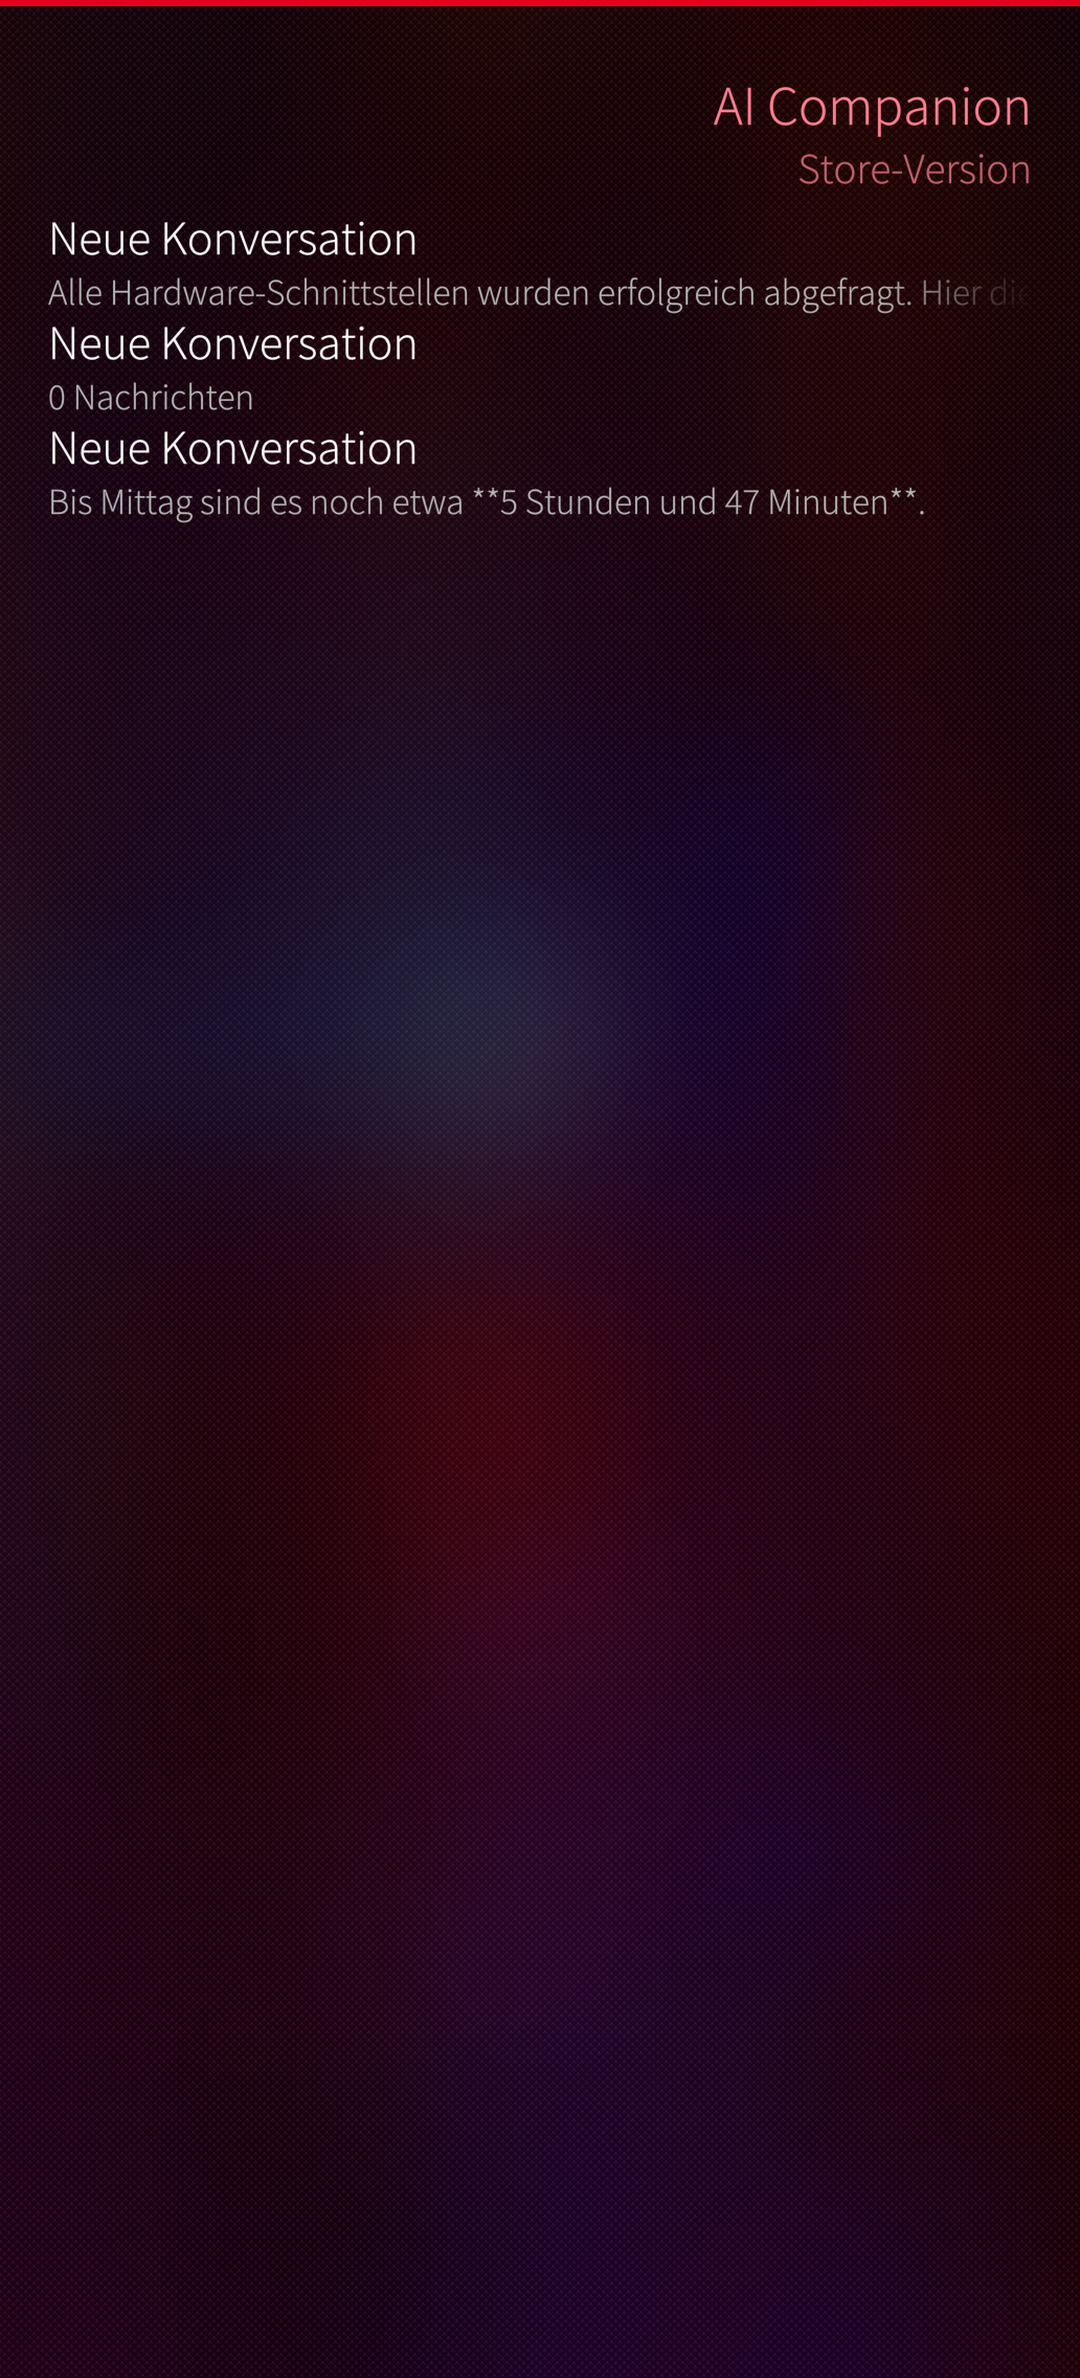
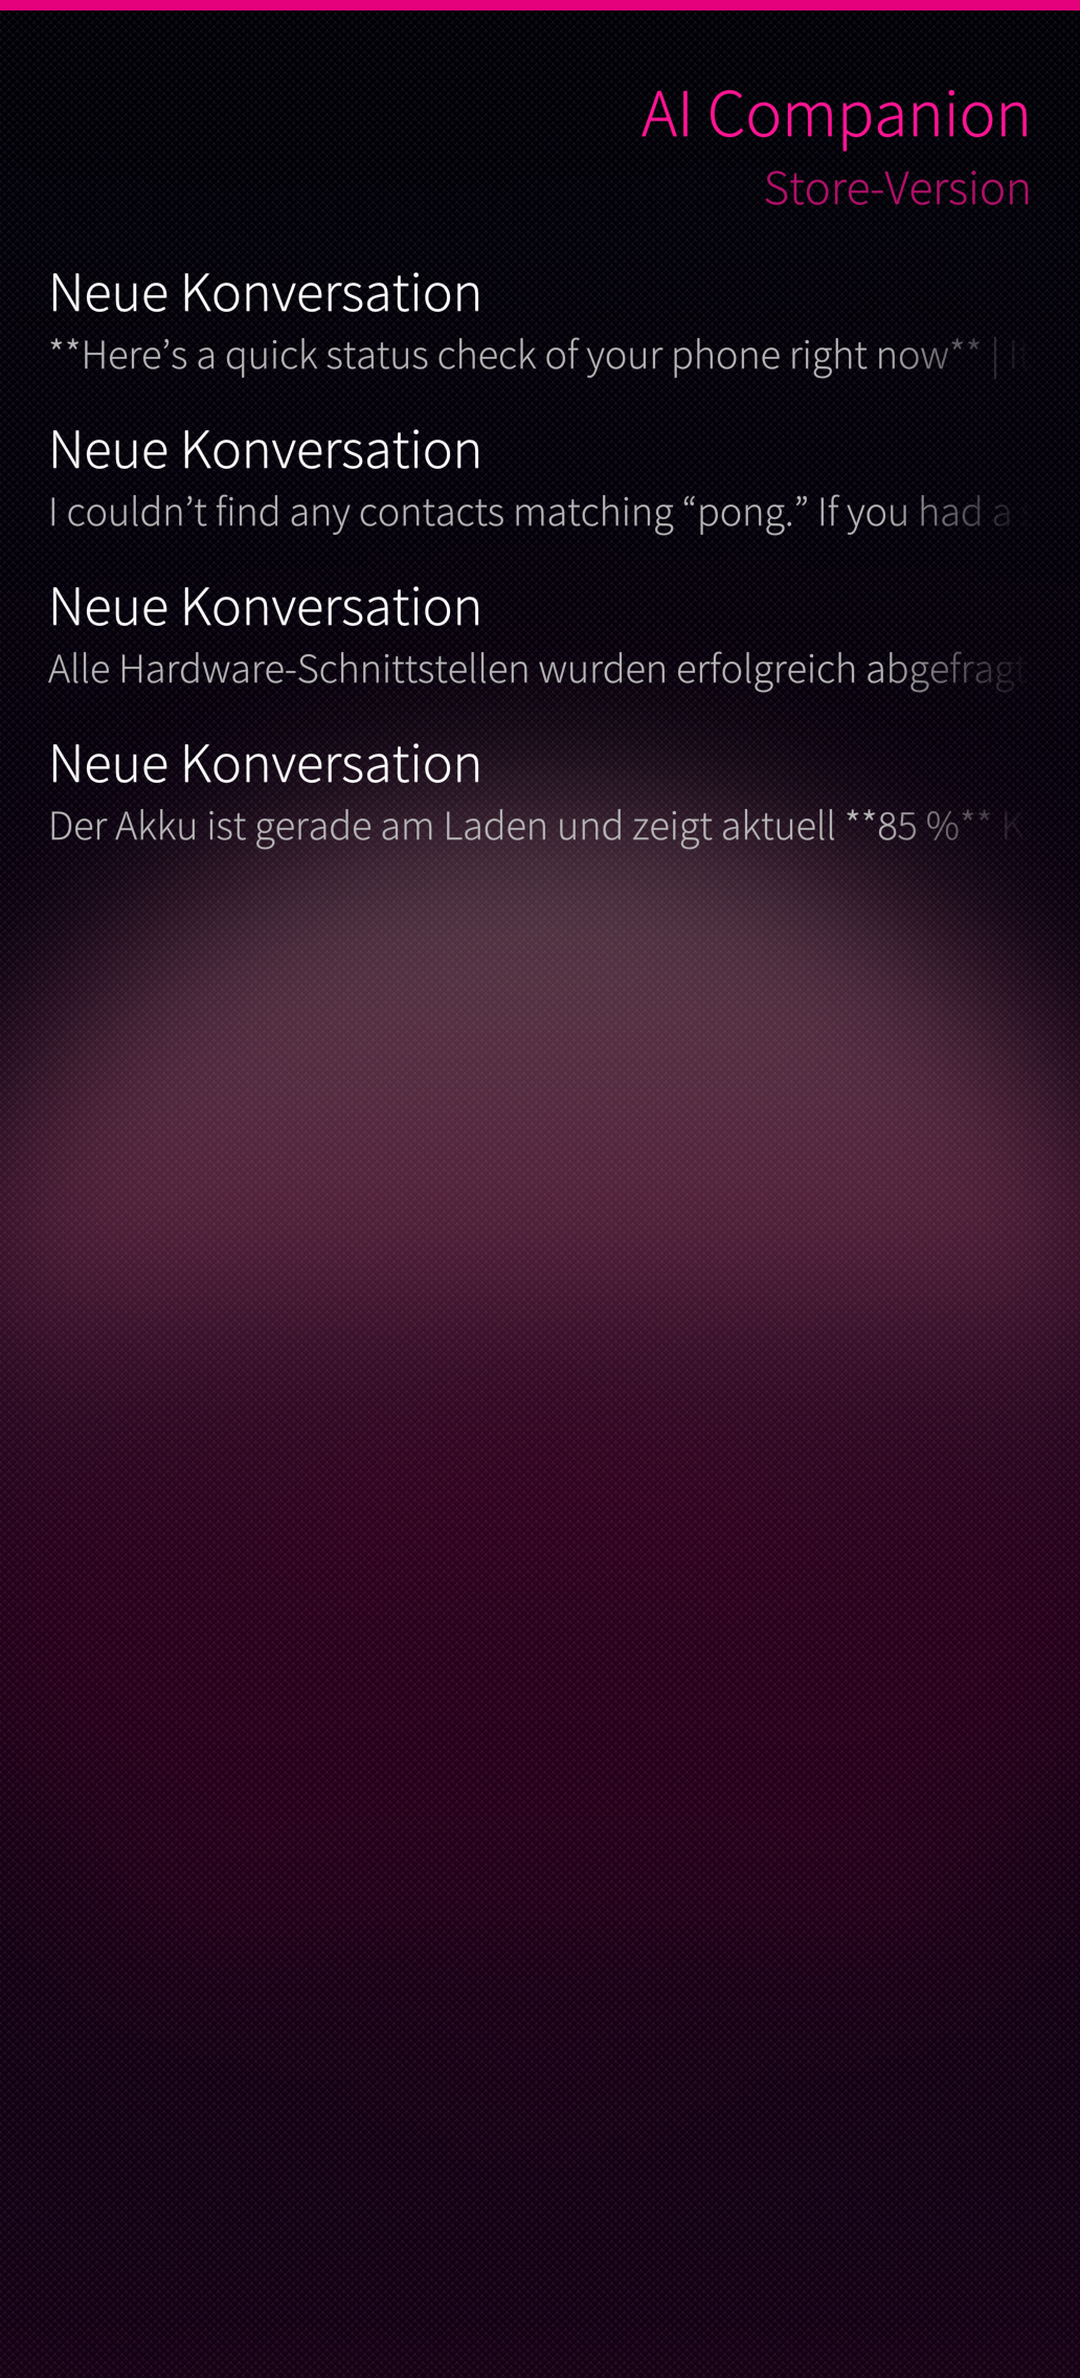
Recapture Harbour store screenshots for v1.0.1
Replaced the 2026-08-14 set (conversations, pulley menu, settings)
with fresh captures from the same real Jolla Phone 2026, now running
harbour-nemoai 1.0.1. Added a new Tools & Permissions screenshot
showing the current, accurate 4-tool list (the old tool set no longer
exists after the interface audit) and a chat-active shot showing tool
call badges plus the new attach icon. Old chat-active screenshot
removed as superseded.

All five upscaled 1032x2272 -> 1080x2378 (Lanczos, no crop) to clear
the store form's stated 1080x1920 minimum, same approach as before.

diff --git a/store/listing.md b/store/listing.md
@@ -26,35 +26,38 @@ not gated by the tool/consent system.
 
 ## Screenshots
 
-Existing captures (`store/screenshots/de-01` through `de-04`, real Jolla
-Phone 2026, 2026-08-14) still show the conversation list, pulley menu, and
-settings page, which haven't changed shape. They do **not** show the new
-attach button or the now-much-shorter Tools & Permissions list — consider
-recapturing at least a Tools & Permissions shot before submitting, since the
-old one (if it was ever used) would show tools that no longer exist in this
-build. Not recaptured in this pass — screenshotting the real device needs a
-manual tap on the Quick Settings screenshot tile, not something scriptable
-over SSH.
+Recaptured 2026-09-15 on the same real Jolla Phone 2026 (aarch64,
+harbour-nemoai 1.0.1), replacing the 2026-08-14 set — the tool list shrank
+from ~8 to 4 since those were taken, and there was no attach button yet.
+Device system language is still German (same as the 0.8.0 capture; despite
+a note in the previous draft speculating it had switched to English based
+on unrelated full-access-build testing earlier the same day — it hadn't,
+this was simply testing a different app). Native capture size 1032×2272,
+upscaled to 1080×2378 (Lanczos, aspect-ratio preserved, no crop) to clear
+the form's stated 1080×1920 minimum, same as before.
 
-`01`–`04` are emulator captures at the SDK's default 336×798 resolution
-(below the Store's stated 1080px-wide minimum), kept only as reference.
-`de-01`–`de-04` are real-device captures (Jolla Phone 2026, aarch64,
-Sailfish OS 5.2.0.16) taken 2026-08-14. Native capture size was 1032×2272,
-just under the form's stated 1080×1920 minimum on the width; upscaled to
-1080×2378 (Lanczos, aspect-ratio preserved, no crop) to clear the check.
-Device system language was German at capture time — current live testing
-(2026-09-15) shows the app running in English on the same device, so the
-system language has apparently changed since; a fresh capture would come
-out English, matching the primary English Details text directly instead of
-needing the bilingual-Details workaround below. Upload order/pick for the
-3-screenshot slot: `de-01-conversations.png`, `de-02-pulley-menu.png`,
-`de-03-settings.png`. `de-04-chat-active.png` (open chat, model +
-active-tools header, empty message list) is a spare.
+Five files, `store/screenshots/de-01` through `de-05`:
 
-Known cosmetic bug visible in `de-01-conversations.png`: the third
-conversation preview renders literal `**5 Stunden und 47 Minuten**` —
-the chat view doesn't parse Markdown bold out of the model's reply. Not
-fixed as part of this listing pass; flagged for a separate fix.
+- `de-01-conversations.png` — conversation list, real (cleaned-up) history
+- `de-02-pulley-menu.png` — pulley menu (Settings / Tools & Permissions / New conversation)
+- `de-03-settings.png` — Settings page (Backend saved, default model, Local-only toggle)
+- `de-04-tools-permissions.png` — **the important new one**: Tools & Permissions
+  showing the current, accurate 4-tool list (all "Systeminfo"/low sensitivity)
+- `de-05-chat-active.png` — open chat with tool-call badges (`get_datetime`,
+  `get_battery_status`) and the attach icon visible bottom-left
+
+Upload order/pick for a 3-screenshot slot: `de-01`, `de-04`, `de-05` (list,
+tools, active chat) cover the most ground; `de-02`/`de-03` are spares if a
+4th/5th slot is available.
+
+`01`–`04` (no `de-` prefix) are old emulator captures at the SDK's default
+336×798 resolution, well below the Store's minimum, kept only as
+historical reference — not for submission.
+
+Known cosmetic bug, still present in `de-05-chat-active.png`: a Markdown
+bold marker renders literally as `**85 %**` instead of being bolded — the
+chat view doesn't parse Markdown out of the model's reply. Not fixed as
+part of this listing pass; flagged for a separate fix.
 
 Category: **Utilities** (alternatively **Internet** — the app is a chat
 client, but its defining feature is the on-device tool/consent layer, which
